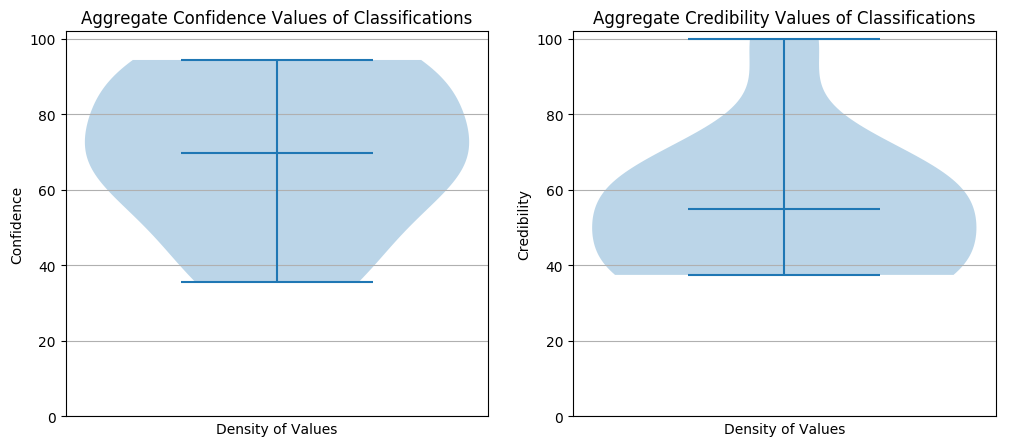
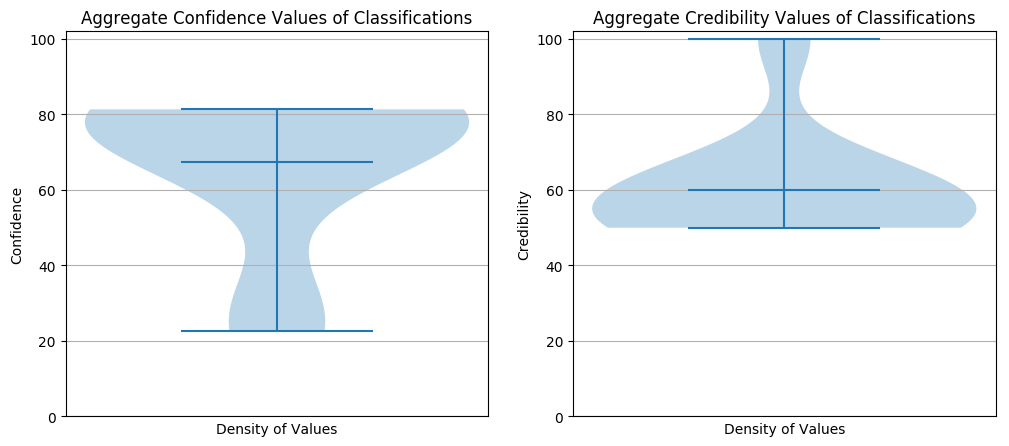
updated confidence measure

diff --git a/bdt-from-scratch/src/New_BDT_FiveRating.py b/bdt-from-scratch/src/New_BDT_FiveRating.py
@@ -328,29 +328,30 @@ def getAccuracy(class_matrix):
 # Calculate the maximum accuracy that can be achieved from a
 # probabilistic label vector
 def getCredibility(plv):
-    max_accuracy = 0 
-    for i in range(len(plv)):
-        max_accuracy += plv[i]*plv[i]*100
-    return max_accuracy
+    return getAccuracy(cross_product(plv, plv))
 
 # Sum elements in a 2D array
 def sum2D(input):
     return sum(map(sum, input))
 
 def getPAActual(predicted):
-  actual = []
+  actual = [0,0,0,0,0] * len(predicted)
   csv_f = open(f_name[0:-4] + '_training' + '.csv')
   csv_f = csv.reader(csv_f)
   csv_f.next()
 
-  for pre in predicted:
+  for i in range(0, len(predicted)):
+    pred = predicted[i]
+    find_count = 0
     for row in csv_f: 
       train_act = [row[1], row[2], row[3], row[4], row[5]]
       train_act = [float(x) for x in train_act]
-      train_pre = [row[6], row[7], row[8], row[9], row[10]]
-      train_pre = [float(x) for x in train_pre]
-      if(pre == train_pre):
-        actual.append(train_act)
+      train_pred = [row[6], row[7], row[8], row[9], row[10]]
+      train_pred = [float(x) for x in train_pred]
+      if(pred == train_pred):
+        actual[i] = np.add(actual[i], train_act)
+        find_count+=1
+    actual[i] = np.divide(actual[i], find_count)
 
   return actual
 
@@ -645,7 +646,10 @@ for trn_ind, tst_ind in kf:
     for i in range(len(trainLabels)):
         train_conf_matrix.append(getConfusionMatrix(trainLabels[i], actualTrain[i]))
         train_credibility.append(getCredibility(actualTrain[i]))
-        train_confidence.append(100*getAccuracy(train_conf_matrix[i])/train_credibility[i])
+        accy = 100*getAccuracy(train_conf_matrix[i])
+        if accy > train_credibility[i]:
+            accy -= train_credibility[i]
+        train_confidence.append(accy/train_credibility[i])
 
     training_data = [train_conf_matrix, train_credibility, train_confidence, classes]
   
@@ -659,7 +663,10 @@ for trn_ind, tst_ind in kf:
     for i in range(len(testLabels)):
         test_conf_matrix.append(getConfusionMatrix(testLabels[i], actualTest[i]))
         test_credibility.append(getCredibility(actualTest[i]))
-        test_confidence.append(100*getAccuracy(test_conf_matrix[i])/test_credibility[i])
+        accy = 100*getAccuracy(test_conf_matrix[i])
+        if accy > test_credibility[i]:
+            accy -= test_credibility[i]
+        test_confidence.append(accy/test_credibility[i])
 
     testing_data = [test_conf_matrix, test_credibility, test_confidence, classes]
 
